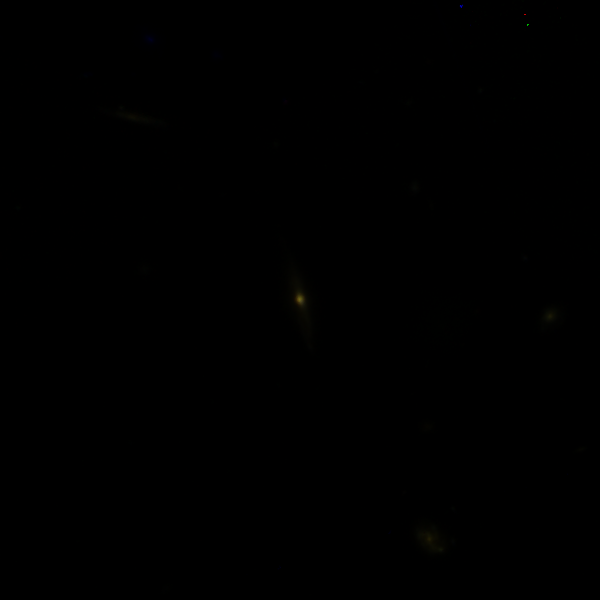
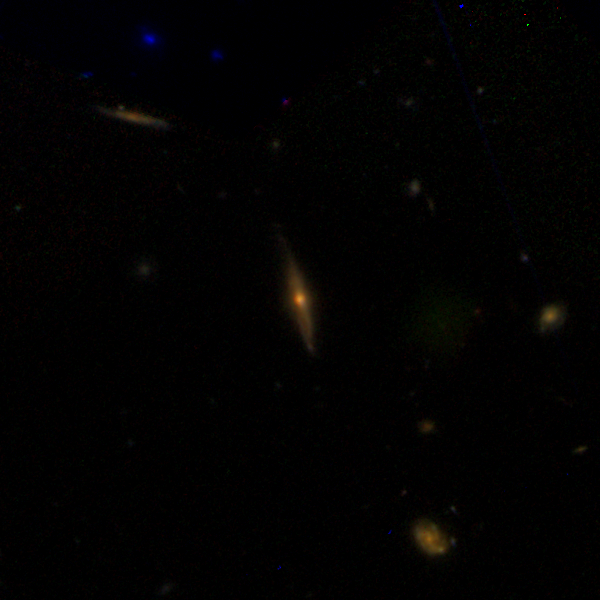
Adjusted the scaling factor for the r and b arrays and the values of strech and Q for the astropy.visualization.make_lupton_rgb(). Also added a code for type annotation.

diff --git a/rgb_filter_images.py b/rgb_filter_images.py
@@ -16,26 +16,6 @@ Match catalogue by RA/Dec to get a consistent list of galaxies to work with
 '''
 
 # Begin by importing all required modules into this file
-from match_catalogue import catalogue_matcher
-from filter_cutouts import make_filter_cutouts
-from astropy.visualization import make_lupton_rgb
-import matplotlib.pyplot as plt
-import os
-
-"""
-Main workflow for creating RGB images from multi-filter cutouts.
-
-This script orchestrates the complete pipeline:
-1. Match catalogs to get clean galaxy list with morphology labels
-2. Create cutouts for R, G, B filters
-3. Combine cutouts into RGB PNG images
-4. Save labels for CNN training
-
-Workflow:
-    Input:  Raw CANDELS FITS images + Galaxy Zoo catalog
-    Output: RGB PNG images + label files for each galaxy
-"""
-
 from astropy.io import fits
 from astropy.table import Table
 from astropy.visualization import make_lupton_rgb
@@ -44,10 +24,20 @@ from filter_cutouts import make_filter_cutouts
 import matplotlib.pyplot as plt
 import numpy as np
 import os
+from typing import List # For proper type annotation
+
+"""
+Main workflow for creating RGB images from multi-filter cutouts.
+
+Workflow:
+    Input:  Raw CANDELS FITS images + Galaxy Zoo catalog
+    Output: RGB PNG images + label files for each galaxy
+"""
+
 
 
 def make_rgb_from_matched_catalog(red_dir, green_dir, blue_dir, output_dir, 
-                                  matched_catalog, stretch=5, Q=8):
+                                  matched_catalog, stretch=0.5, Q=10) -> List[str]:
     """
     Create RGB images from filter cutouts for galaxies in matched catalog.
     
@@ -117,15 +107,15 @@ def make_rgb_from_matched_catalog(red_dir, green_dir, blue_dir, output_dir,
                 print(f"  Missing files for galaxy {galaxy_id}, skipping...")
             continue
         
-        # Load FITS data
+        # Load FITS data. Coverts the .fits files into numpy arrays.
         red_data = fits.getdata(red_file)
         green_data = fits.getdata(green_file)
         blue_data = fits.getdata(blue_file)
         
         # Clean the data (remove NaNs, infinities, negative values)
-        red_data = np.nan_to_num(red_data, nan=0.0, posinf=0.0, neginf=0.0)
+        red_data = 4/3*np.nan_to_num(red_data, nan=0.0, posinf=0.0, neginf=0.0)
         green_data = np.nan_to_num(green_data, nan=0.0, posinf=0.0, neginf=0.0)
-        blue_data = np.nan_to_num(blue_data, nan=0.0, posinf=0.0, neginf=0.0)
+        blue_data = 4/3*np.nan_to_num(blue_data, nan=0.0, posinf=0.0, neginf=0.0)
         
         # Clip negative values to zero (flux should be non-negative). Uncomment this after checking the effect on the data
         # red_data = np.maximum(red_data, 0)
@@ -174,7 +164,7 @@ def make_rgb_from_matched_catalog(red_dir, green_dir, blue_dir, output_dir,
     return rgb_paths
 
 
-def test_small_sample(catalog, sample_size=10):
+def test_small_sample(catalog, sample_size=5):
     """
     Extract a small sample of galaxies for testing.
     
@@ -243,7 +233,7 @@ if __name__ == "__main__":
     
     # Testing parameters
     TEST_MODE = True           # Set to False for full run
-    TEST_SAMPLE_SIZE = 100      # Number of galaxies to test with
+    TEST_SAMPLE_SIZE = 5      # Number of galaxies to test with
     
     # Match catalogues and add morphology labels
     print(" Matching cataogues")

diff --git a/filter_cutouts.py b/filter_cutouts.py
@@ -20,11 +20,12 @@ from astropy.coordinates import SkyCoord
 import numpy as np
 import astropy.units as u
 import os
+from typing import Tuple, List
 
 
 
-def make_filter_cutouts(catalog, image_path, band, output_dir, box_radius=300, 
-                        rootname="candels", prefix="", suffix="") -> list[ list[string,...] , int]: # I'm probably making some mistake in the type annotation but I'll digress...
+def make_filter_cutouts(catalog, image_path, band, output_dir, box_radius=212, 
+                        rootname="candels", prefix="", suffix="") -> Tuple[ List[str] , int]: # I'm probably making some mistake in the type annotation but I'll digress...
     """
     Create thumbnail cutouts for all galaxies in a catalog from a single filter image.
     
@@ -175,7 +176,7 @@ def make_filter_cutouts(catalog, image_path, band, output_dir, box_radius=300,
         
         # Check if galaxy falls within image bounds(the mosiac)
         if (x_pixel < 0 or x_pixel >= nx or y_pixel < 0 or y_pixel >= ny):
-            print(f" kipping galaxy {galaxy_id}: outside image bounds")
+            print(f" Skipping galaxy {galaxy_id}: outside image bounds")
             skipped_outside += 1
             continue
 

diff --git a/match_catalogue.py b/match_catalogue.py
@@ -10,6 +10,7 @@ import matplotlib as mpl
 mpl.rcParams['savefig.dpi'] = 90
 mpl.rcParams['figure.dpi'] = 90
 from astropy.coordinates import SkyCoord, match_coordinates_sky
+from typing import List # For proper type annotation
 
 """
 match_catalogue.py
@@ -27,9 +28,9 @@ Purpose:
 """
 
 
-
+#  max_separation should not be greater than 2
 def catalogue_matcher(main_catalog_path, ref_catalog_path, field_filter='GDS', 
-                      max_separation=0.5, save_output=True, output_filename="matched_catalog.fits"):
+                      max_separation=1, save_output=True, output_filename="matched_catalog.fits") -> List[str]:
     """
     Match a main catalog against a reference catalog using RA/Dec positions.
     
